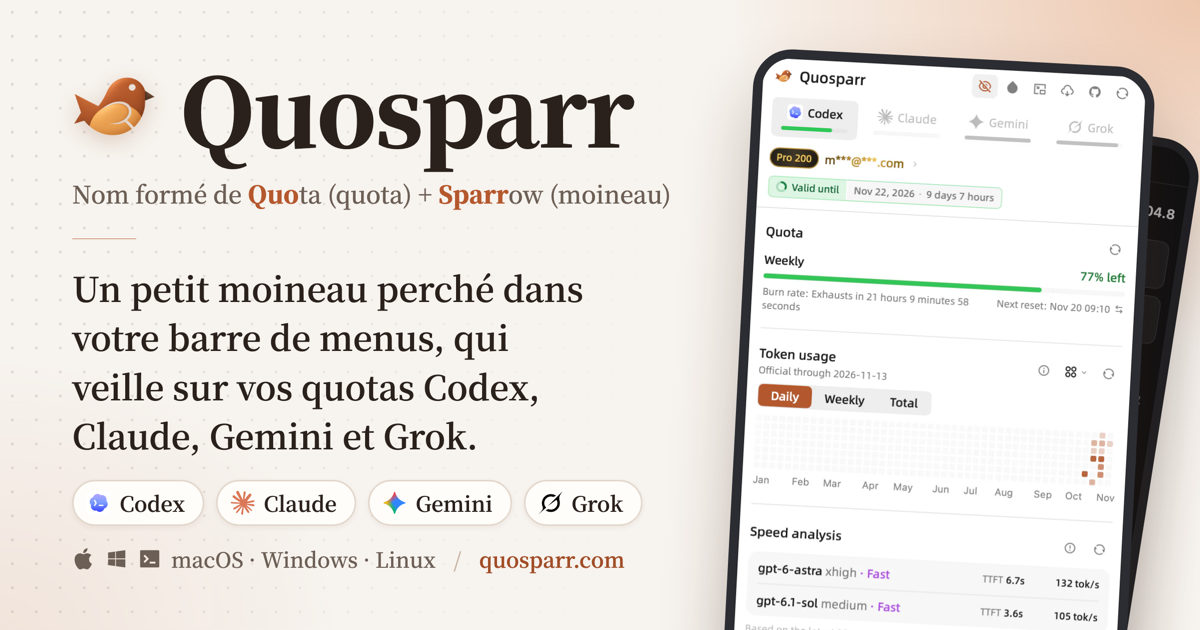
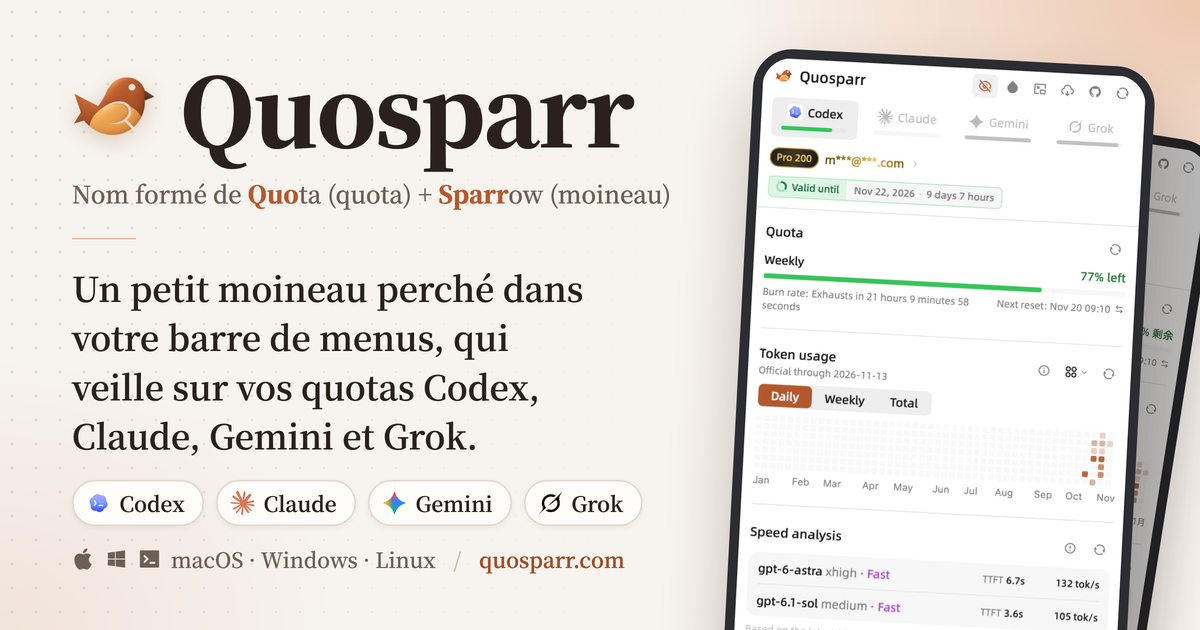
feat(website): 分享图生成脚本纳入仓库
说明：
- 新增 Scripts/generate-og-images.py，用无头 Chrome 渲染七语言 1200×630 分享图，再经 ImageMagick 缩放、去元数据并压缩，直接覆盖 website/static/img/og-*.png
- 文案、主面板截图、应用与供应商图标、平台图标均取自仓库；思源宋体 OTC 只在运行时按 J / K / SC / TC 拆出单个字形文件到临时目录，仅用标准库，不需要 fontTools
- 原背景卡片截图已从仓库移除，改为另一语言的主面板截图，分享图随之重新生成

操作：
- 在仓库根目录的 .env（已加入 .gitignore）中配置 OG_CHROME、OG_MAGICK、OG_FONTS，然后运行 python3 Scripts/generate-og-images.py；说明见 website/README.md

diff --git a/Scripts/generate-og-images.py b/Scripts/generate-og-images.py
@@ -1,0 +1,173 @@
+#!/usr/bin/env python3
+"""Render website/static/img/og-<code>.png, one 1200x630 share image per website locale.
+
+Local tools are read from the repository's .env (git-ignored), or the environment:
+
+    OG_CHROME=   Chrome or Chromium executable
+    OG_MAGICK=   ImageMagick 7 `magick` executable
+    OG_FONTS=    folder with Source Han Serif OTC SourceHanSerif-{Heavy,SemiBold,Medium}.ttc
+
+Every other input comes from the repository: the hero copy in website/locales, the main panel
+screenshots in docs/images, the app icon and provider icons in internal/app/assets and the
+platform icons in website/icons.
+"""
+
+import json
+import os
+import re
+import struct
+import subprocess
+import sys
+import tempfile
+from pathlib import Path
+
+
+REPO = Path(__file__).resolve().parents[1]
+OUT = REPO / "website" / "static" / "img"
+# Faces of the Source Han Serif collection, in its order: Japanese, Korean, Simplified and Traditional Chinese.
+FACES = {"J": 0, "K": 1, "SC": 2, "TC": 3}
+WEIGHTS = ("Heavy", "SemiBold", "Medium")
+FACE = {"en": "J", "fr": "J", "ru": "J", "ja": "J", "ko": "K", "zh-hans": "SC", "zh-hant": "TC"}
+LANG = {"en": "en", "fr": "fr", "ru": "ru", "ja": "ja", "ko": "ko", "zh-hans": "zh-Hans", "zh-hant": "zh-Hant"}
+
+PAGE = """<!doctype html><html lang="{lang}"><head><meta charset="utf-8"><style>
+@font-face{{font-family:H;src:url(SHS-{face}-Heavy.otf)}}
+@font-face{{font-family:S;src:url(SHS-{face}-SemiBold.otf)}}
+@font-face{{font-family:M;src:url(SHS-{face}-Medium.otf)}}
+*{{box-sizing:border-box}}
+html,body{{margin:0;width:1200px;height:630px;overflow:hidden}}
+.og{{position:relative;width:1200px;height:630px;overflow:hidden;color:#2a211c;
+  background:
+    radial-gradient(760px 560px at 100% 0%,rgb(224 138 85/.42),transparent 62%),
+    radial-gradient(520px 420px at 0% 100%,rgb(181 88 46/.10),transparent 65%),
+    #f7f3ee}}
+.og::before{{content:"";position:absolute;inset:0;
+  background-image:radial-gradient(rgb(108 95 86/.20) 1.3px,transparent 1.5px);background-size:24px 24px;
+  -webkit-mask-image:linear-gradient(100deg,#000 0%,transparent 55%)}}
+.left{{position:absolute;left:72px;top:60px;bottom:56px;width:600px;display:flex;flex-direction:column}}
+.brand{{display:flex;align-items:center;gap:18px}}
+.brand img{{width:96px;height:96px;margin-left:-6px;filter:drop-shadow(0 6px 10px rgb(120 60 25/.22))}}
+.name{{font-family:H;font-size:94px;line-height:1;letter-spacing:-1.5px;padding-bottom:6px}}
+.ety{{margin-top:16px;font-family:M;font-size:25px;color:#6c5f56;white-space:nowrap}}
+.ety b{{font-family:H;font-weight:normal;color:#b5582e}}
+.rule{{width:64px;height:5px;border-radius:3px;background:#b5582e;margin:28px 0 24px}}
+.tag{{font-family:S;font-size:var(--t,38px);line-height:1.45;text-wrap:balance;word-break:auto-phrase}}
+:lang(zh) .tag,:lang(ko) .tag{{word-break:keep-all}}
+.foot{{margin-top:auto;padding-top:20px}}
+.pills{{display:flex;gap:12px}}
+.pill{{display:flex;flex-shrink:0;white-space:nowrap;align-items:center;gap:9px;height:46px;padding:0 18px 0 13px;border-radius:999px;
+  background:#fffdfa;border:1.5px solid #e2d7cc;font-family:S;font-size:var(--p,21px);box-shadow:0 2px 6px rgb(60 40 25/.06)}}
+.pill img{{width:24px;height:24px}}
+.meta{{display:flex;align-items:center;gap:10px;margin-top:18px;font-family:M;font-size:21px;color:#6c5f56}}
+.meta svg{{width:23px;height:23px}}
+.meta .dot{{margin:0 8px;color:#c9b8a8}}
+.meta .url{{font-family:S;color:#a14d27}}
+.back,.front{{position:absolute;border-radius:30px;overflow:hidden;background:#1b1c1f;
+  box-shadow:0 0 0 9px #2c2d33,0 34px 70px rgb(60 35 20/.32)}}
+.back{{left:790px;top:120px;width:350px;transform:rotate(9deg);filter:brightness(.72) saturate(.8)}}
+.front{{left:736px;top:66px;width:384px;transform:rotate(3deg)}}
+.back img,.front img{{display:block;width:100%}}
+</style></head><body><div class="og">
+<div class="back"><img src="{back}"></div>
+<div class="front"><img src="{front}"></div>
+<div class="left">
+  <div class="brand"><img src="{app_icon}"><div class="name">Quosparr</div></div>
+  <div class="ety">{ety}</div>
+  <div class="rule"></div>
+  <div class="tag">{tag}</div>
+  <div class="foot">
+    <div class="pills">
+      <div class="pill"><img src="{codex}">Codex</div>
+      <div class="pill"><img src="{claude}">Claude</div>
+      <div class="pill"><img src="{gemini}">Gemini</div>
+      <div class="pill"><img src="{grok}">Grok</div>
+    </div>
+    <div class="meta">{apple}{windows}{linux}<span>macOS · Windows · Linux</span><span class="dot">/</span><span class="url">quosparr.com</span></div>
+  </div>
+</div></div>
+<script>
+document.fonts.ready.then(()=>{{
+  const left=document.querySelector('.left'),tag=document.querySelector('.tag'),ety=document.querySelector('.ety');
+  for(let s=25;s>17&&ety.scrollWidth>left.clientWidth;s--)ety.style.fontSize=s+'px';
+  for(let s=38;s>26&&left.scrollHeight>left.clientHeight;s--)tag.style.setProperty('--t',s+'px');
+  const pills=document.querySelector('.pills');
+  for(let s=21;s>15&&pills.scrollWidth>left.clientWidth;s--)pills.style.setProperty('--p',s+'px');
+}});
+</script></body></html>"""
+
+
+def config() -> dict[str, str]:
+    env = {}
+    path = REPO / ".env"
+    if path.exists():
+        for line in path.read_text().splitlines():
+            key, sep, value = line.partition("=")
+            if sep and not key.strip().startswith("#"):
+                env[key.strip()] = value.strip().strip("\"'")
+    env.update({key: value for key, value in os.environ.items() if key.startswith("OG_")})
+    missing = [key for key in ("OG_CHROME", "OG_MAGICK", "OG_FONTS") if not env.get(key)]
+    if missing:
+        sys.exit(f"Set {', '.join(missing)} in {path.name} at the repository root")
+    return env
+
+
+def collection_face(data: bytes, index: int) -> bytes:
+    """One face of an OpenType collection as a standalone font; shared tables are copied into it."""
+    if data[:4] != b"ttcf":
+        raise ValueError("not an OpenType collection")
+    start = struct.unpack_from(">I", data, 12 + 4 * index)[0]
+    count = struct.unpack_from(">H", data, start + 4)[0]
+    header, body = bytearray(data[start:start + 12]), bytearray()
+    for i in range(count):
+        tag, checksum, offset, length = struct.unpack_from(">4sIII", data, start + 12 + 16 * i)
+        header += struct.pack(">4sIII", tag, checksum, 12 + 16 * count + len(body), length)
+        body += data[offset:offset + length] + b"\0" * (-length % 4)
+    return bytes(header + body)
+
+
+def split_fonts(folder: Path, work: Path) -> None:
+    for weight in WEIGHTS:
+        data = (folder / f"SourceHanSerif-{weight}.ttc").read_bytes()
+        for face, index in FACES.items():
+            (work / f"SHS-{face}-{weight}.otf").write_bytes(collection_face(data, index))
+
+
+def icon(name: str) -> str:
+    svg = (REPO / "website" / "icons" / f"{name}.svg").read_text()
+    svg = re.sub(r"<title>.*?</title>", "", svg)
+    return svg.replace("<svg ", '<svg fill="currentColor" ', 1)
+
+
+def main() -> None:
+    env = config()
+    providers = REPO / "internal" / "app" / "assets" / "providers"
+    images = REPO / "docs" / "images"
+    assets = {
+        "app_icon": (REPO / "internal" / "app" / "assets" / "app-icon.png").as_uri(),
+        **{name: (providers / file).as_uri() for name, file in
+           {"codex": "codex-color.svg", "claude": "claude-color.svg", "gemini": "gemini-color.svg", "grok": "grok.svg"}.items()},
+        "apple": icon("apple-fill"), "windows": icon("windows-fill"), "linux": icon("terminal-box-fill"),
+    }
+    with tempfile.TemporaryDirectory() as tmp:
+        work = Path(tmp)
+        split_fonts(Path(env["OG_FONTS"]), work)
+        for code, face in FACE.items():
+            hero = json.loads((REPO / "website" / "locales" / f"{code}.json").read_text())["hero"]
+            # The locale's own main panel in front; the other language's panel tilts behind it.
+            front, back = ("panel.webp", "panel-en.webp") if code.startswith("zh-") else ("panel-en.webp", "panel.webp")
+            page = work / f"og-{code}.html"
+            page.write_text(PAGE.format(lang=LANG[code], face=face, ety=hero["etymology"], tag=hero["tagline"],
+                                        front=(images / front).as_uri(), back=(images / back).as_uri(), **assets))
+            raw = work / f"og-{code}@2x.png"
+            subprocess.run([env["OG_CHROME"], "--headless=new", "--disable-gpu", "--hide-scrollbars",
+                            "--force-device-scale-factor=2", "--window-size=1200,630", "--virtual-time-budget=8000",
+                            "--allow-file-access-from-files", f"--screenshot={raw}", page.as_uri()],
+                           check=True, capture_output=True)
+            png = OUT / f"og-{code}.png"
+            subprocess.run([env["OG_MAGICK"], str(raw), "-resize", "1200x630", "-strip",
+                            "-define", "png:compression-level=9", str(png)], check=True, capture_output=True)
+            print(png.relative_to(REPO))
+
+
+if __name__ == "__main__":
+    main()
